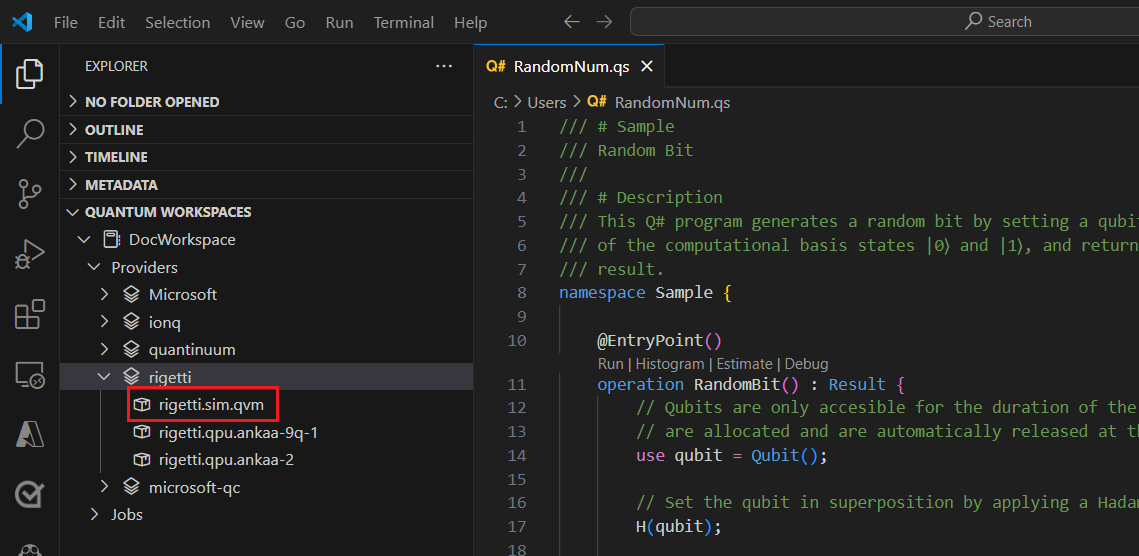
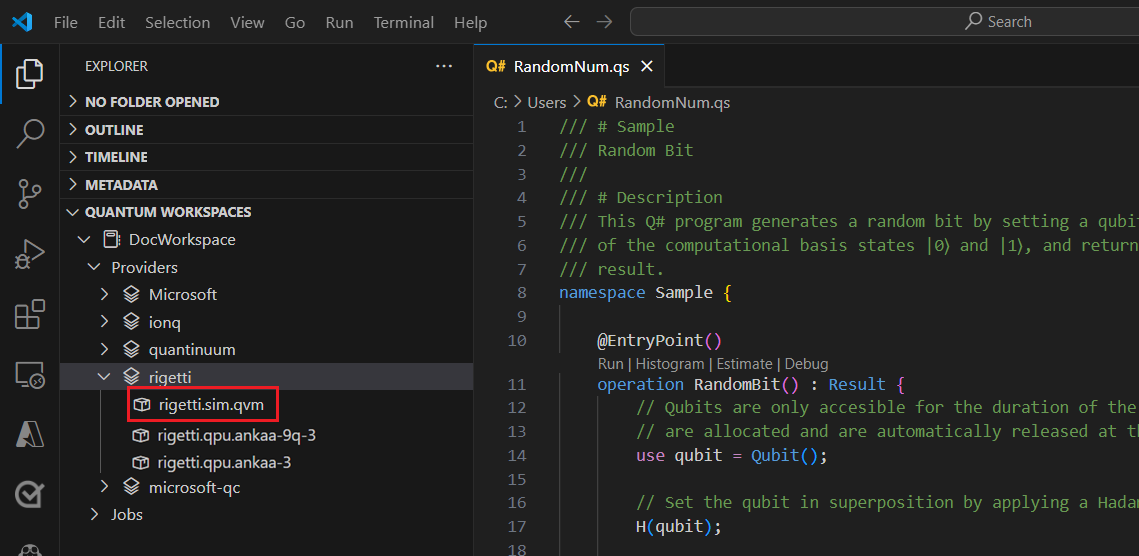
add ankaa-3

Changed region(s): [[0.0922, 0.7644, 0.2766, 0.8561]]

diff --git a/articles/provider-rigetti.md b/articles/provider-rigetti.md
@@ -15,9 +15,6 @@ uid: microsoft.quantum.providers.rigetti
 
 [!INCLUDE [Azure Quantum credits banner](includes/azure-quantum-credits.md)]
 
-> [!NOTE]
-> The Ankaa-2 QPU is retired from the Azure Quantum service as of October 4, 2024. 
-
 [Rigetti quantum processors](https://qcs.rigetti.com/qpus) are universal, gate-model machines based on tunable superconducting qubits. System features and device characteristics include enhanced readout capabilities, a speedup in quantum processing times, fast gate times for multiple entangling gate families, rapid sampling via active register reset, and parametric control.
 
 - Publisher: [Rigetti](https://rigetti.com)

diff --git a/articles/includes/quickstart-qiskit-include-portal.md b/articles/includes/quickstart-qiskit-include-portal.md
@@ -104,6 +104,8 @@ This workspace's targets:
 - quantinuum.sim.h1-1sc
 - quantinuum.sim.h1-1e
 - rigetti.sim.qvm
+- rigetti.qpu.ankaa-9q-3
+- rigetti.qpu.ankaa-3    
 ```
 
 ## Select a target to run your program

diff --git a/articles/includes/quickstart-qiskit-include-local.md b/articles/includes/quickstart-qiskit-include-local.md
@@ -93,6 +93,8 @@ This workspace's targets:
 - quantinuum.sim.h1-1sc
 - quantinuum.sim.h1-1e
 - rigetti.sim.qvm
+- rigetti.qpu.ankaa-9q-3
+- rigetti.qpu.ankaa-3
 ```
 
 ## Run a simple circuit
